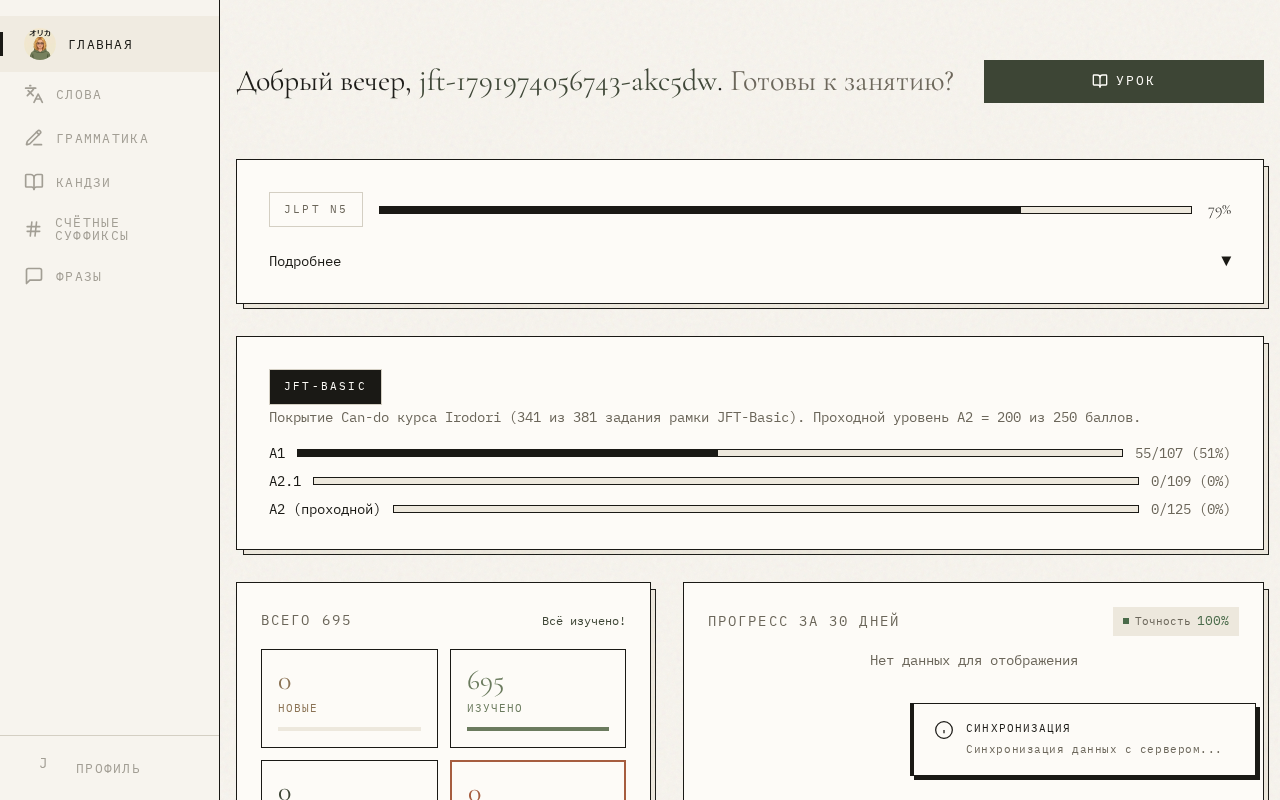
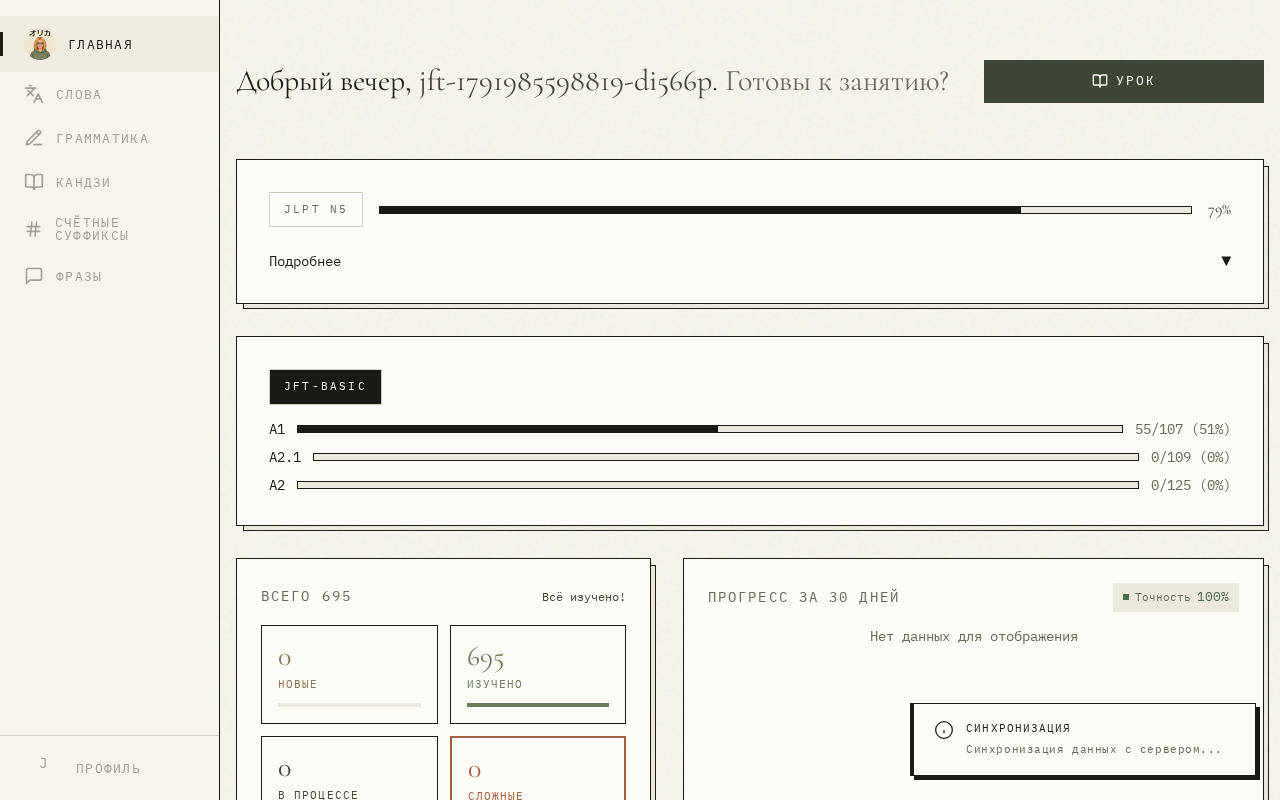
refactor(ui): strip JFT readiness card copy, gate test (#760)
Per user review: the long explainer subtitle and the localized
pass-level marker made the card noisy - removed. The card now
mirrors the JLPT progress card language: a JFT-Basic stamp and
three bare band rows with covered/total percentages. The unused
home.jft_readiness i18n keys are dropped from all four locales.

Adds has_irodori_imports as a named predicate with a parametrized
test (no imports / JLPT-only / Irodori present / mixed) pinning
that users without Irodori imports never trigger the readiness
fetch, and the existing wasm Show-gate test covers the render
side of the same guarantee.

diff --git a/origa_ui/src/pages/home/jft_readiness_card.rs b/origa_ui/src/pages/home/jft_readiness_card.rs
@@ -1,4 +1,3 @@
-use crate::i18n::{t, use_i18n};
 use crate::ui_components::{Card, Tag, TagVariant, Text, TextSize, TypographyVariant};
 use leptos::prelude::*;
 use origa::domain::{BandCoverage, JftCoverage};
@@ -12,20 +11,9 @@ pub fn JftReadinessCard(
     coverage: Signal<JftCoverage>,
     #[prop(optional, into)] test_id: Signal<String>,
 ) -> impl IntoView {
-    let i18n = use_i18n();
-
     let band_a1 = Signal::derive(move || coverage.get().bands()[0].clone());
     let band_a21 = Signal::derive(move || coverage.get().bands()[1].clone());
     let band_a2 = Signal::derive(move || coverage.get().bands()[2].clone());
-
-    let header_test_id = move || {
-        let val = test_id.get();
-        if val.is_empty() {
-            None
-        } else {
-            Some(format!("{val}-header"))
-        }
-    };
 
     view! {
         <Card
@@ -33,43 +21,21 @@ pub fn JftReadinessCard(
             class=Signal::derive(|| "p-4 sm:p-6 lg:p-8".to_string())
             test_id=test_id
         >
-            <div class="flex flex-wrap items-baseline gap-x-3 gap-y-1" data-testid=header_test_id>
+            <div class="mb-4">
                 <Tag variant=Signal::from(TagVariant::Filled)>"JFT-Basic"</Tag>
-                <Text size=Signal::from(TextSize::Small) variant=Signal::from(TypographyVariant::Muted)>
-                    {t!(i18n, home.jft_readiness.subtitle)}
-                </Text>
             </div>
-
-            <div class="space-y-3 mt-5">
-                <BandRow band=band_a1 label_key=BandLabel::A1 />
-                <BandRow band=band_a21 label_key=BandLabel::A21 />
-                <BandRow band=band_a2 label_key=BandLabel::A2 />
+            <div class="space-y-3">
+                <BandRow band=band_a1 />
+                <BandRow band=band_a21 />
+                <BandRow band=band_a2 />
             </div>
         </Card>
     }
 }
 
-/// Localized band label; the A2 row doubles as the pass-level marker
-/// (200/250), per the approved copy decision.
-#[derive(Clone, Copy)]
-enum BandLabel {
-    A1,
-    A21,
-    A2,
-}
-
 #[component]
-fn BandRow(band: Signal<BandCoverage>, label_key: BandLabel) -> impl IntoView {
-    let i18n = use_i18n();
-
-    let label = Signal::derive(move || {
-        let keys = i18n.get_keys().home().jft_readiness();
-        match label_key {
-            BandLabel::A1 => keys.a1().inner().to_string(),
-            BandLabel::A21 => keys.a2_1().inner().to_string(),
-            BandLabel::A2 => keys.a2().inner().to_string(),
-        }
-    });
+fn BandRow(band: Signal<BandCoverage>) -> impl IntoView {
+    let label = Signal::derive(move || band.get().band.code().to_string());
 
     // Dot-free slug: "A2.1" would break unquoted CSS attribute selectors.
     let band_slug = move || band.get().band.code().replace('.', "");

diff --git a/origa_ui/src/pages/home/content.rs b/origa_ui/src/pages/home/content.rs
@@ -28,6 +28,7 @@ use std::collections::HashSet;
 #[cfg(test)]
 mod tests {
     use super::*;
+    use rstest::rstest;
 
     #[test]
     fn is_sync_fresh_within_window_is_true() {
@@ -53,6 +54,25 @@ mod tests {
         assert!(
             !init_should_apply(StatsPainter::Sync),
             "a late init read must not overwrite fresher sync-painted stats"
+        );
+    }
+
+    #[rstest]
+    #[case::no_imports(HashSet::new(), false)]
+    #[case::jlpt_only(HashSet::from(["jlpt_n5".to_string(), "migii_n5_1".to_string()]), false)]
+    #[case::irodori_present(HashSet::from(["irodori_nyuumon_01".to_string()]), true)]
+    #[case::irodori_among_others(
+        HashSet::from(["jlpt_n4".to_string(), "irodori_shokyuu2_18".to_string()]),
+        true
+    )]
+    fn irodori_imports_are_detected_only_for_irodori_sets(
+        #[case] imported: HashSet<String>,
+        #[case] expected: bool,
+    ) {
+        assert_eq!(
+            has_irodori_imports(&imported),
+            expected,
+            "imported: {imported:?}"
         );
     }
 }
@@ -109,6 +129,13 @@ async fn take_handoff_bounded() -> Option<origa::domain::User> {
     }
 }
 
+/// Whether any imported set belongs to the Irodori/JFT track. Users without
+/// Irodori imports never trigger the readiness-card fetch: the card stays
+/// hidden and no CDN request is made.
+fn has_irodori_imports(imported_sets: &HashSet<String>) -> bool {
+    imported_sets.iter().any(|id| id.starts_with("irodori_"))
+}
+
 /// Irodori learner? Fetch the Can-do catalog and compute band coverage over
 /// the imported lessons. JLPT-only users never hit the network here; a
 /// catalog failure just keeps the readiness card hidden.
@@ -117,7 +144,7 @@ fn spawn_jft_coverage_fetch(
     jft_coverage: RwSignal<Option<JftCoverage>>,
     disposed: StoredValue<()>,
 ) {
-    if !imported_sets.iter().any(|id| id.starts_with("irodori_")) {
+    if !has_irodori_imports(&imported_sets) {
         return;
     }
     spawn_local(async move {
